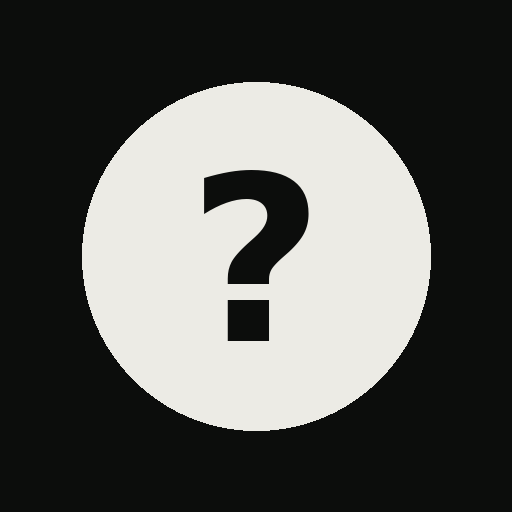
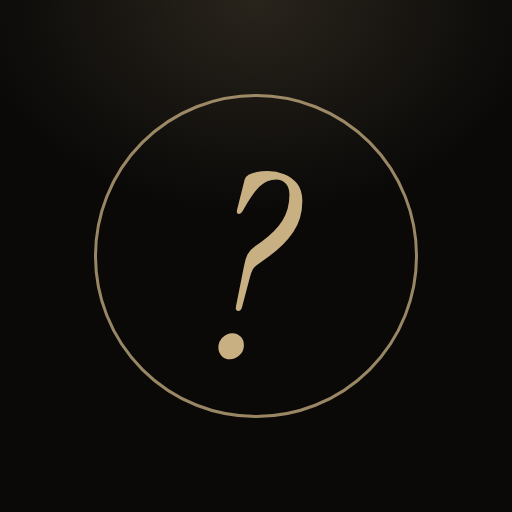
Estética más cuidada: serif, marfil y dorado
- Instrument Serif para nombres, código de sala y títulos; el resto con la
  letra del sistema
- Paleta cálida (negro, marfil, champán) con filo dorado fino en las cartas
- Listas con líneas finas en vez de cajas, botón principal marfil
- Iconos nuevos a juego; caché v6

Claude-Session: https://claude.ai/code/session_01MDhu1G3bfbuCXvyEKLvbcr

diff --git a/styles.css b/styles.css
@@ -1,17 +1,25 @@
 :root {
-  --bg: #0c0d0c;
-  --s1: #141614;
-  --s2: #1c1f1c;
-  --line: #2a2e2a;
-  --tx: #ecebe5;
-  --mu: #8b9089;
-  --ac: #cdeb5f;
-  --red: #ef5a4c;
-  --r: 14px;
+  --bg: #0a0908;
+  --s1: #121110;
+  --s2: #1a1816;
+  --line: rgba(239, 233, 221, .08);
+  --line2: rgba(239, 233, 221, .16);
+  --tx: #efe9dd;
+  --mu: #8e877b;
+  --gold: #c9b083;
+  --ac: #c9b083;
+  --red: #d4614f;
+  --r: 16px;
+  --serif: "Instrument Serif", "Iowan Old Style", "Palatino", Georgia, serif;
+  --gild: linear-gradient(155deg, rgba(201, 176, 131, .55), rgba(201, 176, 131, .06) 38%, rgba(201, 176, 131, .04) 62%, rgba(201, 176, 131, .32));
   color-scheme: dark;
 }
 * { box-sizing: border-box; margin: 0; padding: 0; -webkit-tap-highlight-color: transparent; }
-html, body { background: var(--bg); color: var(--tx); }
+html { background: var(--bg); }
+body {
+  color: var(--tx);
+  background: radial-gradient(90% 45% at 50% -8%, rgba(201, 176, 131, .075), transparent 70%) no-repeat, var(--bg);
+}
 body {
   font: 16px/1.45 -apple-system, BlinkMacSystemFont, "SF Pro Text", "Inter", "Segoe UI", Roboto, sans-serif;
   -webkit-font-smoothing: antialiased;
@@ -21,13 +29,17 @@ body {
 button, input { font: inherit; color: inherit; }
 button { cursor: pointer; background: none; border: 0; }
 button:disabled { cursor: default; }
+::selection { background: rgba(201, 176, 131, .35); }
+:focus-visible { outline: 1px solid var(--gold); outline-offset: 3px; }
 code { font-family: ui-monospace, "SF Mono", Menlo, monospace; background: var(--s2); padding: 1px 6px; border-radius: 6px; }
 
 .screen {
   max-width: 460px; margin: 0 auto; min-height: 100dvh;
-  display: flex; flex-direction: column; gap: 14px;
-  padding: calc(14px + env(safe-area-inset-top)) 20px calc(20px + env(safe-area-inset-bottom));
+  display: flex; flex-direction: column; gap: 16px;
+  padding: calc(16px + env(safe-area-inset-top)) 22px calc(22px + env(safe-area-inset-bottom));
+  animation: fade .35s ease both;
 }
+@keyframes fade { from { opacity: 0; } }
 .center { justify-content: center; align-items: center; }
 .grow { flex: 1; }
 .grow1 { flex: 1; }
@@ -40,133 +52,154 @@ code { font-family: ui-monospace, "SF Mono", Menlo, monospace; background: var(-
 .dim { color: var(--mu); font-weight: 400; }
 .small { font-size: 14px; }
 
-.bar { display: flex; align-items: center; justify-content: space-between; gap: 10px; min-height: 40px; }
+.bar { display: flex; align-items: center; justify-content: space-between; gap: 10px; min-height: 44px; }
+.bar .muted.small { font-size: 12px; letter-spacing: .2em; text-transform: uppercase; }
 .link { color: var(--mu); padding: 8px 0; font-size: 15px; }
 .link:active { color: var(--tx); }
-.code-tag { font-family: ui-monospace, Menlo, monospace; letter-spacing: .12em; color: var(--tx); }
+.code-tag { font-family: var(--serif); font-size: 20px; letter-spacing: .14em; color: var(--gold); }
 
-.brand { display: flex; align-items: center; gap: 8px; font-weight: 650; font-size: 18px; letter-spacing: -.01em; }
+.brand { display: flex; align-items: baseline; gap: 7px; font-family: var(--serif); font-size: 25px; letter-spacing: .005em; }
+.brand .dim { font-style: italic; }
 .mark {
-  width: 28px; height: 28px; border-radius: 50%;
+  width: 28px; height: 28px; border-radius: 50%; align-self: center;
   display: grid; place-items: center;
-  background: var(--tx); color: var(--bg); font-weight: 800; font-size: 17px;
+  border: 1px solid rgba(201, 176, 131, .55); color: var(--gold);
+  font-family: var(--serif); font-size: 19px; line-height: 1; padding-top: 2px;
 }
-.title { font-size: 26px; line-height: 1.15; letter-spacing: -.02em; font-weight: 700; }
-.lbl { color: var(--mu); font-size: 14px; }
-.foot { color: var(--mu); font-size: 13px; }
-.sec { font-size: 13px; font-weight: 600; text-transform: uppercase; letter-spacing: .08em; color: var(--mu); margin-top: 8px; }
+.title { font-family: var(--serif); font-size: 34px; line-height: 1.1; font-weight: 400; letter-spacing: .005em; }
+.lbl { color: var(--mu); font-size: 13px; letter-spacing: .01em; }
+.foot { color: var(--mu); font-size: 13px; line-height: 1.55; }
+.sec { font-size: 11px; font-weight: 600; text-transform: uppercase; letter-spacing: .22em; color: var(--mu); margin-top: 14px; display: flex; align-items: center; gap: 8px; }
+.sec .muted { color: var(--gold); letter-spacing: .1em; }
+.sec .small { font-size: 11px; text-transform: none; letter-spacing: .02em; color: var(--mu); }
 
 input {
   width: 100%; height: 54px; padding: 0 16px;
-  background: var(--s1); border: 1px solid var(--line); border-radius: var(--r);
-  font-size: 18px; outline: none;
+  background: var(--s1); border: 1px solid var(--line2); border-radius: var(--r);
+  font-size: 17px; outline: none; transition: border-color .2s;
 }
-input:focus { border-color: var(--mu); }
-.code-in { font-family: ui-monospace, Menlo, monospace; letter-spacing: .3em; text-transform: uppercase; text-align: center; font-size: 22px; }
+input::placeholder { color: #5f594f; }
+input:focus { border-color: rgba(201, 176, 131, .6); }
+input:focus-visible { outline: none; }
+.code-in { font-family: var(--serif); letter-spacing: .4em; text-transform: uppercase; text-align: center; font-size: 26px; padding-left: calc(16px + .4em); }
 
 .btn {
-  height: 54px; padding: 0 20px; border-radius: var(--r);
-  background: var(--s2); border: 1px solid var(--line);
-  font-weight: 600; white-space: nowrap;
-  transition: transform .08s ease, opacity .15s;
+  height: 54px; padding: 0 22px; border-radius: var(--r);
+  background: transparent; border: 1px solid var(--line2);
+  font-weight: 500; font-size: 15px; letter-spacing: .02em; white-space: nowrap;
+  transition: transform .1s ease, opacity .2s, border-color .2s;
 }
-.btn:active:not(:disabled) { transform: scale(.98); }
-.btn:disabled { opacity: .45; }
-.btn.primary { background: var(--tx); color: var(--bg); border-color: var(--tx); }
-.btn.big { width: 100%; height: 58px; font-size: 17px; }
+.btn:active:not(:disabled) { transform: scale(.985); }
+.btn:disabled { opacity: .4; }
+.btn.primary {
+  background: linear-gradient(180deg, #f5f0e6, #e3dbcc); color: #15120e; border-color: transparent;
+  box-shadow: inset 0 1px 0 rgba(255, 255, 255, .7), 0 10px 30px -14px rgba(239, 233, 221, .45);
+}
+.btn.big { width: 100%; height: 58px; font-size: 16px; }
 .btn.ghost { background: transparent; }
 .btn.small { height: 40px; font-size: 14px; padding: 0 16px; }
 
 .or { display: flex; align-items: center; gap: 12px; color: var(--mu); font-size: 13px; }
-.or::before, .or::after { content: ""; flex: 1; height: 1px; background: var(--line); }
+.or::before, .or::after { content: ""; flex: 1; height: 1px; background: var(--line2); }
 
-.how { list-style: none; counter-reset: s; display: grid; gap: 8px; color: var(--mu); font-size: 14px; }
-.how li { counter-increment: s; display: flex; gap: 10px; }
-.how li::before { content: counter(s); font-family: ui-monospace, Menlo, monospace; color: var(--tx); width: 14px; flex: none; }
+.how { list-style: none; counter-reset: s; display: grid; gap: 12px; color: var(--mu); font-size: 14px; border-top: 1px solid var(--line); padding-top: 18px; }
+.how li { counter-increment: s; display: flex; gap: 14px; line-height: 1.5; }
+.how li::before { content: counter(s); font-family: var(--serif); font-style: italic; font-size: 19px; line-height: 1.1; color: var(--gold); width: 12px; flex: none; }
 
 .code-big {
-  font-family: ui-monospace, "SF Mono", Menlo, monospace;
-  font-size: 64px; font-weight: 700; letter-spacing: .14em; text-align: center;
-  padding: 18px 0 4px; margin-right: -.14em;
+  font-family: var(--serif);
+  font-size: 84px; font-weight: 400; line-height: 1; letter-spacing: .12em; text-align: center;
+  padding: 26px 0 6px; margin-right: -.12em;
 }
 
-.list { list-style: none; display: grid; gap: 6px; }
+.list { list-style: none; display: grid; border-top: 1px solid var(--line); }
 .list li {
-  display: flex; align-items: center; gap: 10px;
-  min-height: 48px; padding: 0 14px;
-  background: var(--s1); border: 1px solid var(--line); border-radius: 12px;
+  display: flex; align-items: center; gap: 12px;
+  min-height: 52px; padding: 0 4px;
+  border-bottom: 1px solid var(--line);
 }
 .pname { flex: 1; overflow: hidden; text-overflow: ellipsis; white-space: nowrap; }
-.dot { width: 8px; height: 8px; border-radius: 50%; background: var(--ac); flex: none; }
-.dot.off { background: var(--line); }
-.tag { font-size: 12px; color: var(--mu); border: 1px solid var(--line); border-radius: 99px; padding: 2px 8px; }
+.dot { width: 6px; height: 6px; border-radius: 50%; background: var(--gold); box-shadow: 0 0 10px rgba(201, 176, 131, .6); flex: none; }
+.dot.off { background: var(--line2); box-shadow: none; }
+.tag { font-size: 10px; font-weight: 600; text-transform: uppercase; letter-spacing: .16em; color: var(--gold); }
 .tag.red { color: var(--red); border-color: color-mix(in srgb, var(--red) 45%, transparent); }
-.x { width: 32px; height: 32px; margin-right: -8px; color: var(--mu); font-size: 22px; line-height: 1; }
-.count { font-family: ui-monospace, Menlo, monospace; font-size: 18px; min-width: 18px; text-align: right; }
+.x { width: 32px; height: 32px; margin-right: -6px; color: var(--mu); font-size: 20px; font-weight: 300; line-height: 1; }
 
-.setting { display: grid; gap: 6px; }
-.seg { display: flex; background: var(--s1); border: 1px solid var(--line); border-radius: 12px; padding: 3px; }
-.seg button { flex: 1; height: 40px; border-radius: 9px; color: var(--mu); font-size: 15px; font-weight: 500; }
-.seg button.on { background: var(--s2); color: var(--tx); box-shadow: inset 0 0 0 1px var(--line); }
+.setting { display: grid; gap: 8px; }
+.seg { display: flex; background: var(--s1); border: 1px solid var(--line); border-radius: 14px; padding: 3px; }
+.seg button { flex: 1; height: 40px; border-radius: 11px; color: var(--mu); font-size: 14px; font-weight: 500; transition: color .2s, background .2s; }
+.seg button.on { background: var(--s2); color: var(--tx); box-shadow: inset 0 0 0 1px rgba(201, 176, 131, .35); }
 .seg button:disabled { cursor: default; }
 .seg button.on:disabled { color: var(--tx); }
 
 .sticky {
   position: sticky; bottom: 0; margin-top: auto;
-  padding-top: 14px; padding-bottom: env(safe-area-inset-bottom);
-  background: linear-gradient(to bottom, transparent, var(--bg) 30%);
+  padding-top: 20px; padding-bottom: env(safe-area-inset-bottom);
+  background: linear-gradient(to bottom, transparent, var(--bg) 35%);
 }
-.wait { text-align: center; color: var(--mu); padding: 16px 0; font-size: 15px; }
+.wait { text-align: center; color: var(--mu); padding: 16px 0; font-size: 14px; letter-spacing: .01em; }
 
 .card {
-  width: 100%; min-height: 46dvh;
-  display: flex; flex-direction: column; align-items: center; justify-content: center; gap: 10px;
-  padding: 28px 22px; text-align: center;
-  background: var(--s1); border: 1px solid var(--line); border-radius: 22px;
+  width: 100%; min-height: 48dvh;
+  display: flex; flex-direction: column; align-items: center; justify-content: center; gap: 12px;
+  padding: 32px 24px; text-align: center; border-radius: 24px;
+  border: 1px solid transparent;
+  background:
+    radial-gradient(120% 70% at 50% 0%, rgba(201, 176, 131, .07), transparent 60%) padding-box,
+    linear-gradient(var(--s1), var(--s1)) padding-box,
+    var(--gild) border-box;
+  box-shadow: 0 30px 60px -30px rgba(0, 0, 0, .8);
   user-select: none; -webkit-user-select: none;
 }
-.card.closed { background: repeating-linear-gradient(135deg, var(--s1) 0 14px, #121412 14px 28px); }
-.card-q { font-size: 72px; font-weight: 800; line-height: 1; color: var(--mu); }
-.card-k { color: var(--mu); font-size: 13px; text-transform: uppercase; letter-spacing: .1em; }
-.card-name { font-size: 34px; font-weight: 750; letter-spacing: -.02em; line-height: 1.1; overflow-wrap: anywhere; }
-.card-sub { font-size: 17px; }
-.card-hide { color: var(--mu); font-size: 13px; margin-top: 18px; }
-.card.imp { background: color-mix(in srgb, var(--red) 14%, var(--s1)); border-color: color-mix(in srgb, var(--red) 50%, transparent); }
-.card.imp .card-name { color: var(--red); letter-spacing: .04em; }
-
-.starter { text-align: center; font-size: 17px; }
-
-.votes li { padding: 0; }
-.vote { width: 100%; min-height: 54px; display: flex; align-items: center; gap: 10px; padding: 0 16px; text-align: left; border-radius: 12px; }
-.vote.on { box-shadow: inset 0 0 0 2px var(--tx); }
-
-.verdict { font-size: 30px; font-weight: 750; letter-spacing: -.02em; text-align: center; padding-top: 18px; }
-.verdict.win { color: var(--ac); }
-.verdict.lose { color: var(--red); }
-.reveal-box {
-  display: grid; gap: 6px; justify-items: center; text-align: center;
-  padding: 22px; background: var(--s1); border: 1px solid var(--line); border-radius: 18px;
+.card.closed { gap: 14px; }
+.card-q { font-family: var(--serif); font-style: italic; font-size: 110px; font-weight: 400; line-height: .9; color: var(--gold); }
+.card-k { color: var(--gold); font-size: 11px; font-weight: 600; text-transform: uppercase; letter-spacing: .26em; }
+.card-name { font-family: var(--serif); font-size: 46px; font-weight: 400; letter-spacing: .005em; line-height: 1.02; overflow-wrap: anywhere; text-wrap: balance; }
+.card-sub { font-size: 16px; }
+.card-hide { color: var(--mu); font-size: 11px; letter-spacing: .18em; text-transform: uppercase; margin-top: 22px; }
+.card.imp {
+  background:
+    radial-gradient(110% 70% at 50% 0%, rgba(212, 97, 79, .16), transparent 65%) padding-box,
+    linear-gradient(#150d0b, #100a09) padding-box,
+    linear-gradient(155deg, rgba(212, 97, 79, .6), rgba(212, 97, 79, .06) 40%, rgba(212, 97, 79, .3)) border-box;
 }
-.reveal-box .card-k:not(:first-child) { margin-top: 12px; }
-.imp-name { font-size: 20px; font-weight: 650; color: var(--red); }
+.card.imp .card-k { color: var(--red); }
+.card.imp .card-name { color: var(--red); font-style: italic; font-size: 58px; }
+
+.starter { text-align: center; font-size: 15px; color: var(--mu); margin-top: 6px; }
+.starter b { font-family: var(--serif); font-size: 24px; font-weight: 400; color: var(--tx); margin-left: 4px; }
+
+
+.reveal-box {
+  display: grid; gap: 8px; justify-items: center; text-align: center;
+  padding: 36px 24px; border-radius: 24px; border: 1px solid transparent;
+  background:
+    radial-gradient(120% 70% at 50% 0%, rgba(201, 176, 131, .08), transparent 60%) padding-box,
+    linear-gradient(var(--s1), var(--s1)) padding-box,
+    var(--gild) border-box;
+  box-shadow: 0 30px 60px -30px rgba(0, 0, 0, .8);
+}
+.reveal-box .card-k:not(:first-child) { margin-top: 22px; padding-top: 22px; border-top: 1px solid var(--line); width: 60%; }
+.imp-name { font-family: var(--serif); font-style: italic; font-size: 34px; line-height: 1.1; color: var(--red); }
 
 .toast {
   position: fixed; left: 50%; transform: translateX(-50%);
   bottom: calc(24px + env(safe-area-inset-bottom));
   max-width: calc(100% - 40px);
-  background: var(--tx); color: var(--bg);
-  padding: 12px 18px; border-radius: 12px; font-size: 15px; font-weight: 500;
+  background: var(--tx); color: #15120e;
+  padding: 12px 18px; border-radius: 14px; font-size: 14px; font-weight: 500;
+  box-shadow: 0 16px 40px rgba(0, 0, 0, .5);
   animation: up .2s ease;
   z-index: 10;
 }
 @keyframes up { from { opacity: 0; transform: translate(-50%, 8px); } }
 
-.card-clubs { color: var(--mu); font-size: 14px; max-width: 32ch; }
-.order { text-align: center; margin-top: -6px; }
+.card-clubs { color: var(--mu); font-size: 13px; line-height: 1.6; max-width: 30ch; }
+.order { text-align: center; margin-top: -8px; letter-spacing: .01em; }
 .order b { color: var(--tx); font-weight: 600; }
 .banner {
   display: flex; align-items: center; justify-content: space-between; gap: 10px;
-  padding: 8px 8px 8px 14px; font-size: 14px;
-  background: var(--s1); border: 1px solid var(--line); border-radius: 12px;
+  padding: 8px 8px 8px 16px; font-size: 13px; color: var(--mu);
+  background: var(--s1); border: 1px solid var(--line2); border-radius: 14px;
 }
 @media (prefers-reduced-motion: reduce) { * { animation: none !important; transition: none !important; } }

diff --git a/index.html b/index.html
@@ -5,7 +5,7 @@
   <meta name="viewport" content="width=device-width, initial-scale=1, viewport-fit=cover">
   <title>Impostor · fútbol</title>
   <meta name="description" content="El juego del impostor con futbolistas de LaLiga, Sudamérica y leyendas. Cada uno en su móvil.">
-  <meta name="theme-color" content="#0c0d0c">
+  <meta name="theme-color" content="#0a0908">
   <meta name="color-scheme" content="dark">
   <meta name="apple-mobile-web-app-capable" content="yes">
   <meta name="mobile-web-app-capable" content="yes">
@@ -15,9 +15,12 @@
   <link rel="icon" href="icon-192.png">
   <link rel="apple-touch-icon" href="apple-touch-icon.png">
   <link rel="preconnect" href="https://www.gstatic.com" crossorigin>
-  <link rel="modulepreload" href="players.js?v=5">
-  <link rel="modulepreload" href="config.js?v=5">
-  <link rel="stylesheet" href="styles.css?v=5">
+  <link rel="preconnect" href="https://fonts.googleapis.com">
+  <link rel="preconnect" href="https://fonts.gstatic.com" crossorigin>
+  <link rel="stylesheet" href="https://fonts.googleapis.com/css2?family=Instrument+Serif:ital@0;1&display=swap">
+  <link rel="modulepreload" href="players.js?v=6">
+  <link rel="modulepreload" href="config.js?v=6">
+  <link rel="stylesheet" href="styles.css?v=6">
 </head>
 <body>
   <div id="app"><main class="screen center"><p class="muted">Cargando…</p></main></div>
@@ -44,7 +47,7 @@
     };
     setTimeout(window.__bootFail, 10000);
   </script>
-  <script type="module" src="app.js?v=5" onerror="__bootFail()"></script>
+  <script type="module" src="app.js?v=6" onerror="__bootFail()"></script>
   <script>
     if ("serviceWorker" in navigator) addEventListener("load", () => navigator.serviceWorker.register("sw.js"));
   </script>

diff --git a/app.js b/app.js
@@ -3,10 +3,10 @@ import { getAuth, signInAnonymously, onAuthStateChanged } from "https://www.gsta
 import {
   getDatabase, ref, get, set, update, remove, onValue, onDisconnect, serverTimestamp,
 } from "https://www.gstatic.com/firebasejs/10.12.2/firebase-database.js";
-import { firebaseConfig } from "./config.js?v=5";
+import { firebaseConfig } from "./config.js?v=6";
 import {
   BY_NAME, POS_LABEL, POOL_OPTS, ERA_OPTS, LEVEL_OPTS, HINT_OPTS, buildPool, isLiga,
-} from "./players.js?v=5";
+} from "./players.js?v=6";
 
 window.__booted = true;
 try { sessionStorage.removeItem("imp.repaired"); } catch {}
@@ -518,7 +518,7 @@ function card() {
   if (s.role === "impostor") {
     return `<button class="card open imp" data-a="flip">
       <span class="card-k">Eres el</span>
-      <span class="card-name">IMPOSTOR</span>
+      <span class="card-name">Impostor</span>
       <span class="card-sub">${s.hint ? `Pista: ${esc(s.hint)}` : "Sin pista. Disimula."}</span>
       ${s.k > 1 ? `<span class="card-sub dim">Hay ${s.k} impostores</span>` : ""}
       <span class="card-hide">Toca para ocultar</span>

diff --git a/sw.js b/sw.js
@@ -1,11 +1,11 @@
 // App: red primero (con límite de 2,5 s) para recibir siempre la última versión; si no hay red, caché.
-// Firebase SDK: caché primero (sus URLs llevan versión y no cambian).
-const V = "impostor-v5";
+// Firebase SDK y fuente: caché primero (sus URLs llevan versión y no cambian).
+const V = "impostor-v6";
 const ASSETS = [
-  "./", "./index.html", "./styles.css?v=5", "./app.js?v=5", "./players.js?v=5", "./config.js?v=5",
+  "./", "./index.html", "./styles.css?v=6", "./app.js?v=6", "./players.js?v=6", "./config.js?v=6",
   "./manifest.webmanifest", "./icon-192.png", "./icon-512.png", "./apple-touch-icon.png",
 ];
-const CDN = ["www.gstatic.com"];
+const CDN = ["www.gstatic.com", "fonts.googleapis.com", "fonts.gstatic.com"];
 
 self.addEventListener("install", (e) => {
   // cache: "reload" evita que la instalación copie archivos viejos de la caché HTTP del navegador.
